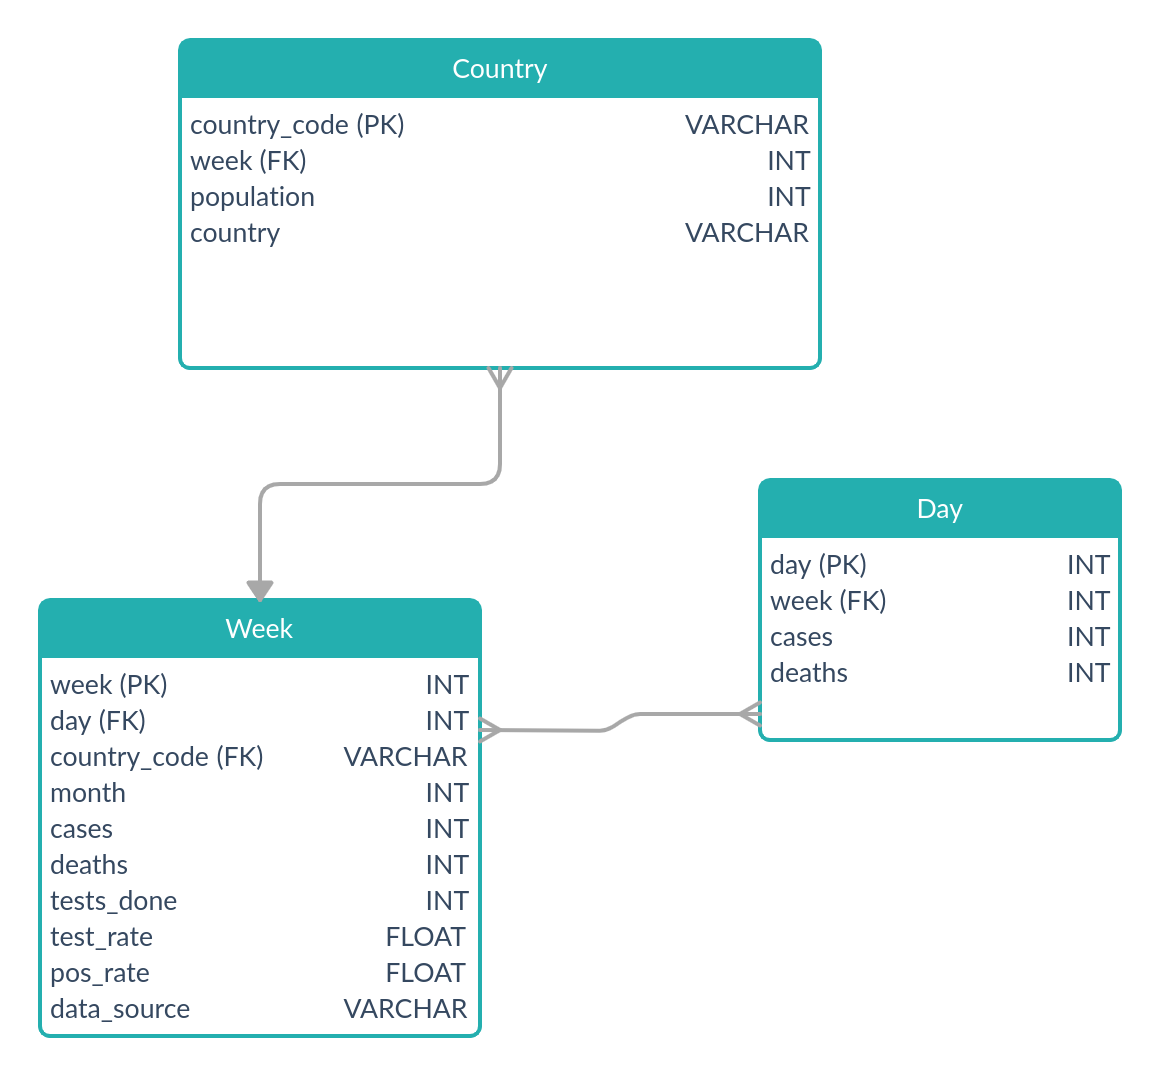
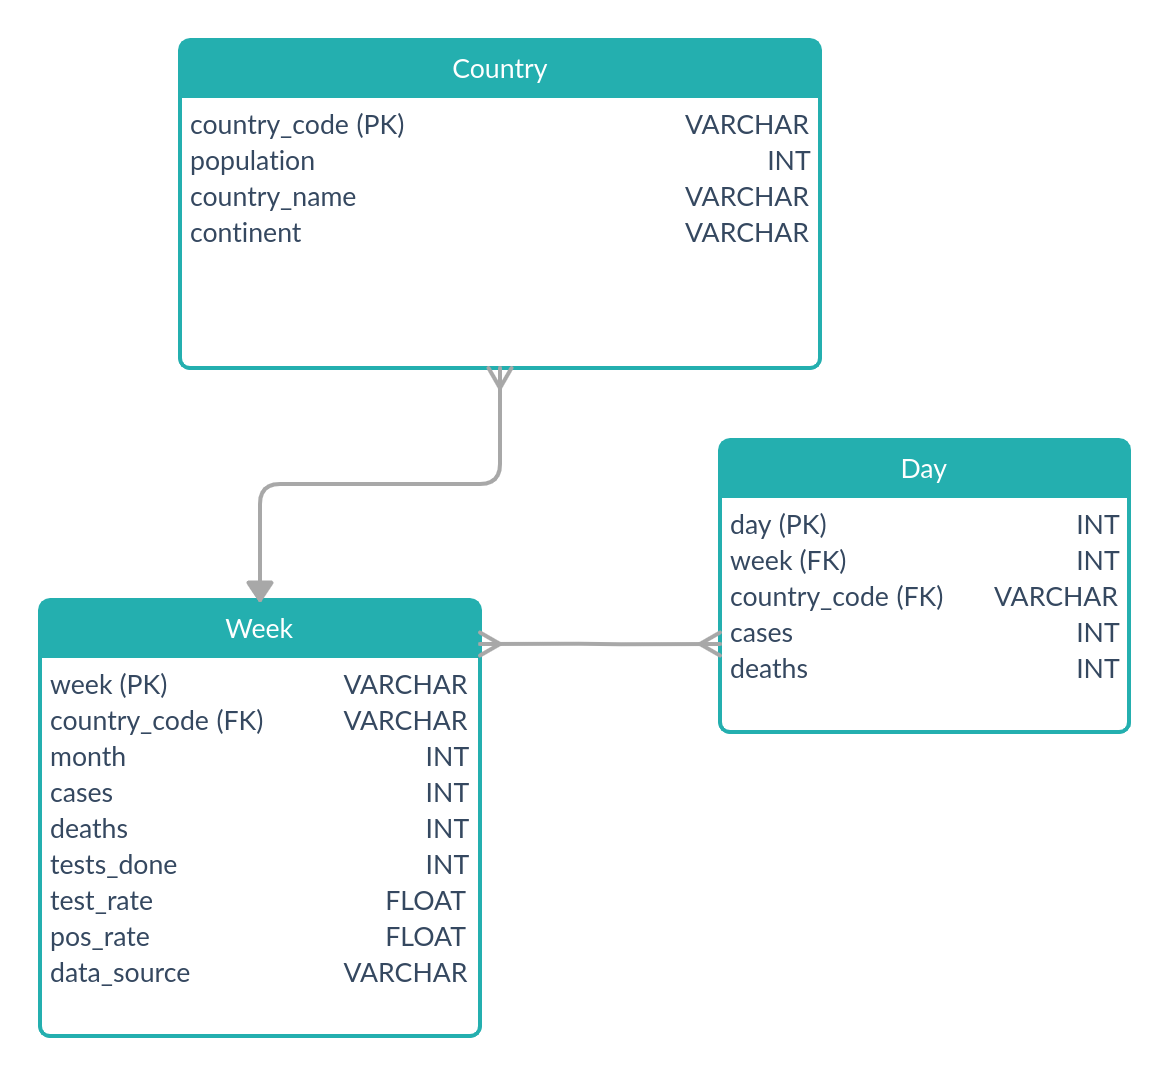
Falta o modelo conceptual

diff --git a/TP1/index.html b/TP1/index.html
@@ -180,7 +180,7 @@
 
 <section id="processo" class="title-slide slide level1">
 <h1>Processo</h1>
-
+<p>Para chegar ao resultado obtido comecei por desenhar um modelo conceptual que organiza-se os casos diariamente e semanalmente por país. Com esse modelo estruturei o lógico para definir os tipos que iria utilizar e de seguida gerei o modelo fisico com base neste último. Tendo o modelo fisico gerado e conetado à base de dados, utilizei o Table Data Import Wizard do MySQL Workbench para importar os dados dos .csv para as tabelas.</p>
 </section>
     </div>
   </div>

diff --git a/TP1/tp1.md b/TP1/tp1.md
@@ -85,3 +85,10 @@ call count_country_total_deaths('AT');
 ```
 
 # Processo
+
+Para chegar ao resultado obtido comecei por desenhar um modelo conceptual que
+organiza-se os casos diariamente e semanalmente por país. Com esse modelo
+estruturei o lógico para definir os tipos que iria utilizar e de seguida
+gerei o modelo fisico com base neste último.
+Tendo o modelo fisico gerado e conetado à base de dados, utilizei o Table Data
+Import Wizard do MySQL Workbench para importar os dados dos .csv para as tabelas.
